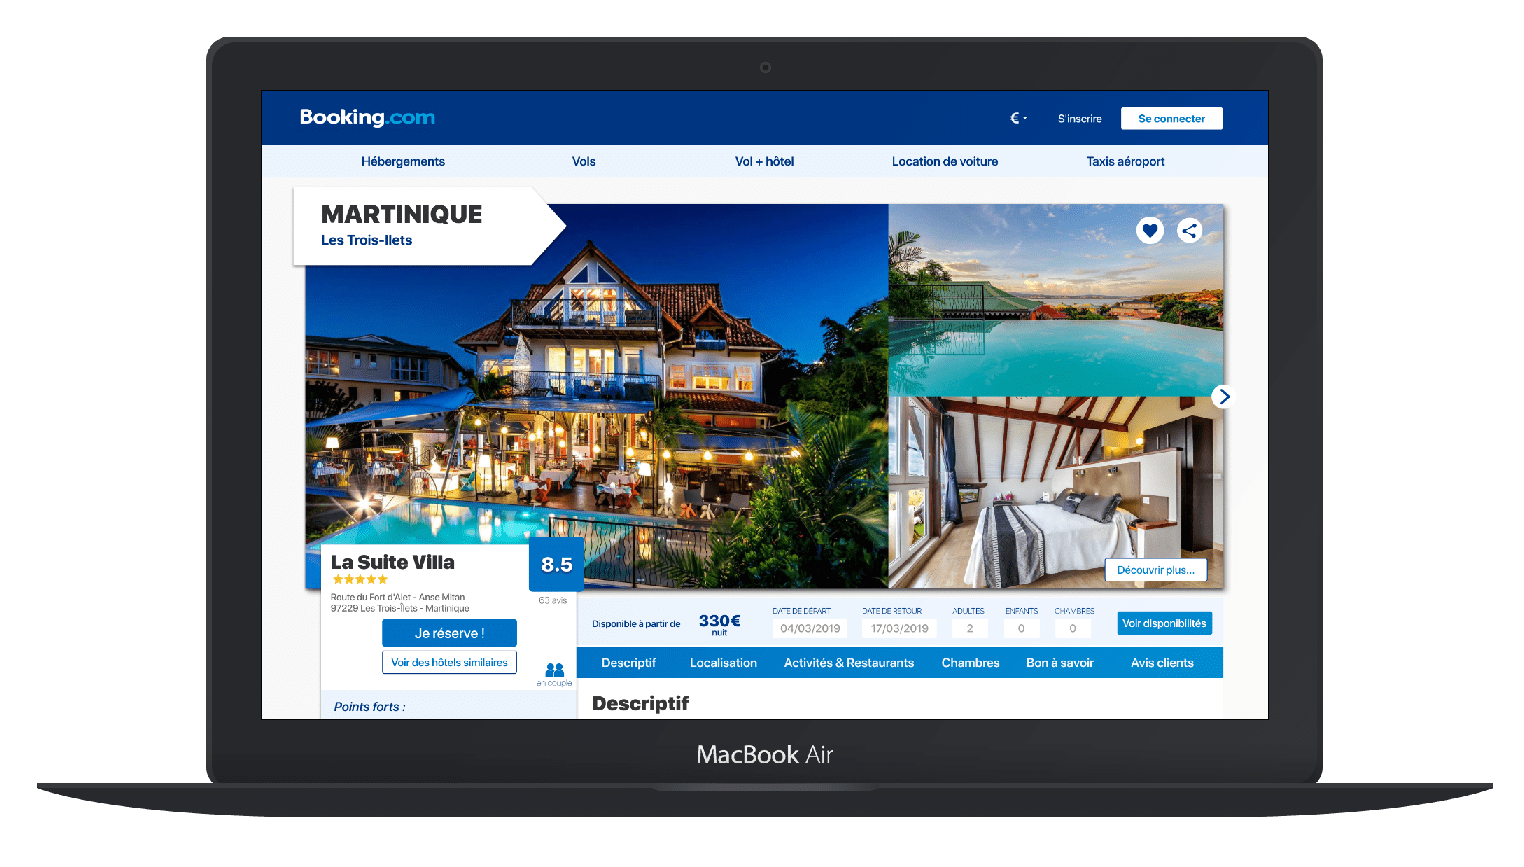
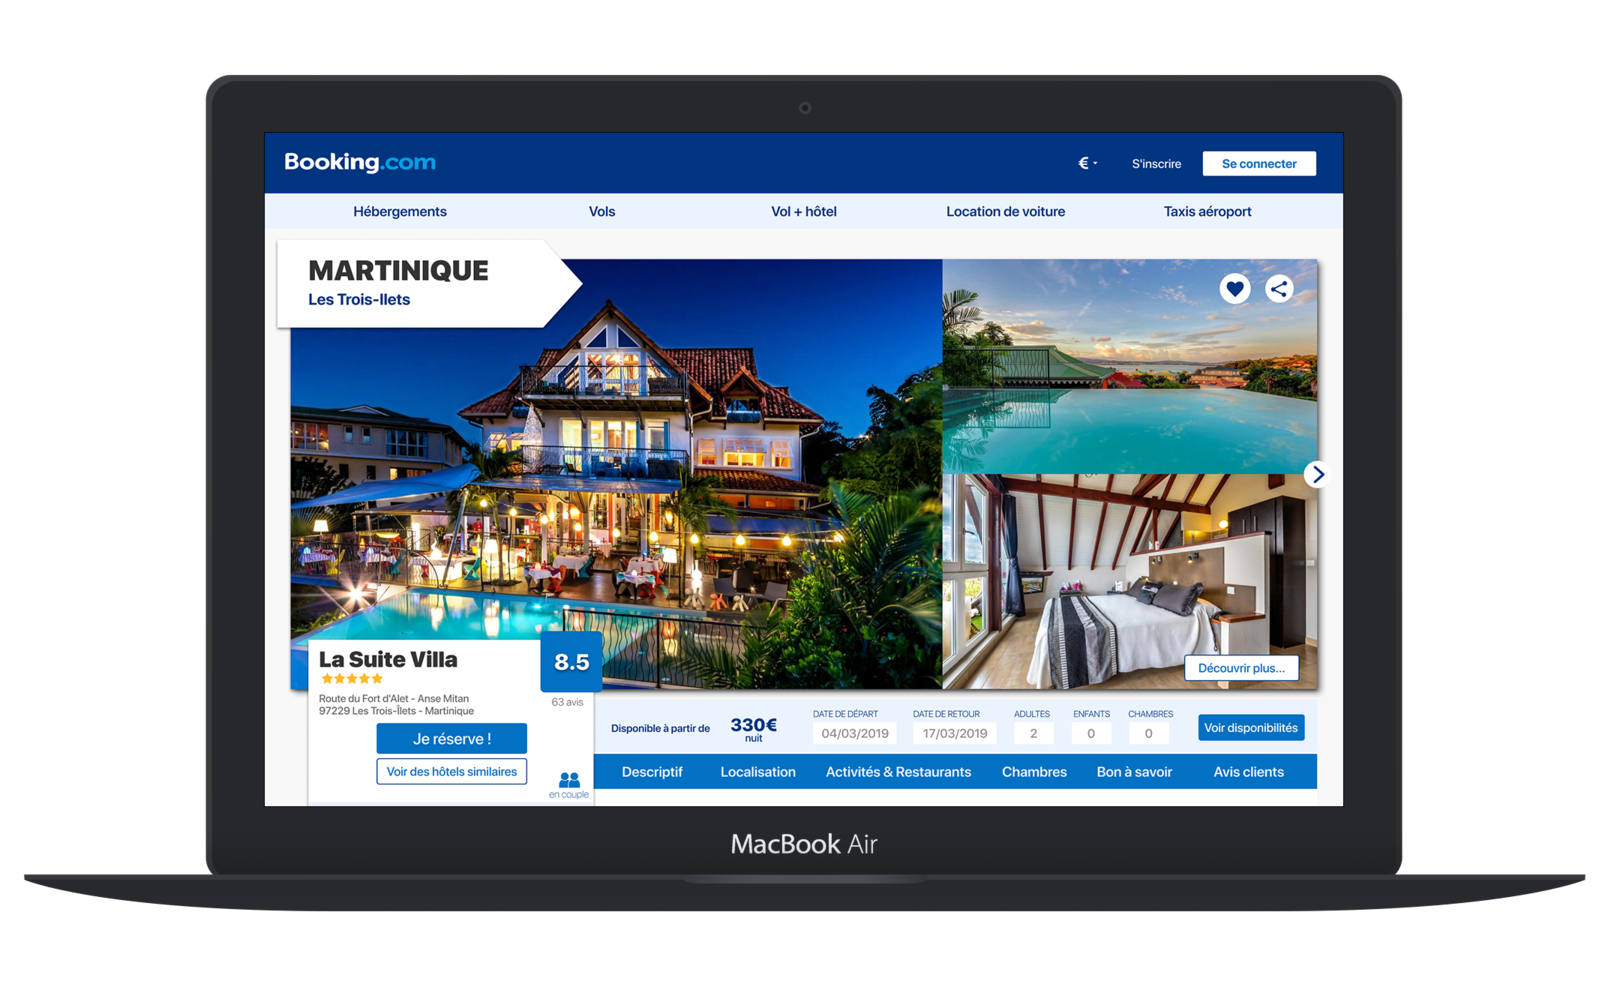
image optimization

diff --git a/src/scss/blocs/project.scss b/src/scss/blocs/project.scss
@@ -243,174 +243,3 @@ $margin-left-project-m: 30px;
     // margin-bottom: 300px;
   }
 }
-
-
-
-
-
-
-
-
-
-
-
-
-
-
-
-
-
-
-
-
-
-
-
-
-
-// .project__page .project__next {
-//   display: inline-block;
-//   position: relative;
-//   right: 20px;
-//   // width: 180px;
-//   margin-top: 20px;
-//   margin-bottom: 40px;
-//   margin-right: 50px;
-
-//   background-color: $papyrus;
-
-//   @include desktop {
-//     display: flex;
-//     justify-content: flex-end;
-//     align-items: center;
-//     position: absolute;
-//     // width: initial;
-//     right: 20px;
-//     bottom: 20px;
-//     padding: 0px 50px;
-//     margin-left: $margin-left-project;
-//     margin-right: 0px;
-//     margin-bottom: initial;
-//     padding: 0px 50px;
-//     font-size: initial;
-//   }
-// }
-
-// .project__next .icon__next {
-//   display: inline;
-//   position: relative;
-//   width: 40px;
-//   height: 40px;
-//   margin-left: 30px;
-//   transform: rotate(270deg);
-// }
-
-// .project__next .icon__next {
-//   position: relative;
-//   width: 40px;
-//   height: 40px;
-//   margin-left: 70%;
-//   margin-top: 30px;
-//   margin-bottom: 10%;
-
-//   transform: rotate(270deg);
-
-//   background-color: $papyrus;
-
-//   @include desktop {
-//     margin-left: initial;
-//     margin-top: initial;
-//     margin-bottom: initial;
-//   }
-// }
-
-// .project__next::before {
-//   position: absolute;
-//   content: "";
-//   right: 30px;
-
-//   @include desktop {
-//     content: "PROJET SUIVANT";
-//     width: 180px;
-//     right: 120px;
-//     text-align: right;
-//     // margin-left: 30px;
-
-//     @include paragraph;
-//     font-size: 1rem;
-//     font-weight: 300;
-//     color: $gold;
-//     background-color: $papyrus;
-//   }
-// }
-
-// .project__page .project__previous {
-//   display: inline-block;
-//   // width: 120px;
-//   margin-top: 20px;
-//   margin-bottom: 40px;
-//   margin-left: 50px;
-
-//   background-color: $papyrus;
-
-//   @include desktop {
-//     display: flex;
-//     justify-content: flex-start;
-//     align-items: center;
-//     position: absolute;
-//     // width: initial;
-//     left: 20px;
-//     bottom: 20px;
-//     margin-left: 0;
-//     margin-bottom: initial;
-//     padding: 0px 50px;
-//     font-size: initial;
-//   }
-// }
-
-// .project__previous .icon__next {
-//   display: inline;
-//   position: relative;
-//   width: 40px;
-//   height: 40px;
-//   margin-right: 30px;
-//   transform: rotate(90deg);
-// }
-
-// .project__previous .icon__next {
-//   position: relative;
-//   width: 40px;
-//   height: 40px;
-//   margin-left: 30%;
-//   margin-top: 30px;
-//   margin-bottom: 10%;
-
-//   transform: rotate(90deg);
-
-//   background-color: $papyrus;
-
-//   @include desktop {
-//     margin-left: initial;
-//     margin-top: initial;
-//     margin-bottom: initial;
-//   }
-// }
-
-// .project__previous::after {
-//   position: absolute;
-//   content: "";
-//   left: 30px;
-
-//   @include desktop {
-//     content: "PROJET PRÉCÉDENT";
-//     width: 180px;
-//     left: 120px;
-//     // margin-left: 30px;
-
-//     @include paragraph;
-//     font-size: 1rem;
-//     font-weight: 300;
-//     color: $gold;
-//     background-color: $papyrus;
-//   }
-// }

diff --git a/src/pages/booking.html b/src/pages/booking.html
@@ -5,6 +5,7 @@
     <meta name="viewport" content="width=device-width, initial-scale=1.0" />
     <meta name="format-detection" content="telephone=no" />
     <meta http-equiv="X-UA-Compatible" content="ie=edge" />
+    <meta name="description" content="Fiona Roux, Front-End Developper & UX|UI Designer en recherche de stage." />
     <link rel="stylesheet" href="../scss/styles.scss" />
     <title>Portfolio of Fiona Roux</title>
   </head>
@@ -222,7 +223,7 @@
     <article class="project__page">
       <h1 class="project__title">Booking</h1>
       <h2>ENJEU MAJEUR</h2>
-      <img class="project__mockup" src="/assets/mockup_booking.png"/>
+      <img class="project__mockup" src="/assets/mockup_booking.png" srcset="/assets/mockup_booking-min.png 800w" alt="preview de la maquette de Booking"/>
       <p class="project__description">Lorem ipsum dolor sit amet consectetur adipisicing elit. Nam rerum molestiae maiores expedita atque laudantium, quisquam consectetur voluptate ducimus, ex amet adipisci quod obcaecati sint, eius autem. Quod, iure aliquid?
       Lorem ipsum dolor sit amet consectetur adipisicing elit. Nam rerum molestiae maiores expedita atque laudantium, quisquam consectetur voluptate ducimus, ex amet adipisci quod obcaecati sint, eius autem. Quod, iure aliquid?
       </p>
@@ -231,7 +232,7 @@
     <!-- Projects navigation  -->
     <div class="project__navigation">
       <div class="project__next">
-        <a href="./moschino.html" class="project__link project__link--next">   
+        <a href="./moschino.html">   
           <svg class="icon__next" aria-hidden="true">
             <use xlink:href="#icon__scroll"></use>
           </svg>

diff --git a/src/pages/strit.html b/src/pages/strit.html
@@ -5,6 +5,7 @@
     <meta name="viewport" content="width=device-width, initial-scale=1.0" />
     <meta name="format-detection" content="telephone=no" />
     <meta http-equiv="X-UA-Compatible" content="ie=edge" />
+    <meta name="description" content="Fiona Roux, Front-End Developper & UX|UI Designer en recherche de stage." />
     <link rel="stylesheet" href="../scss/styles.scss" />
     <title>Portfolio of Fiona Roux</title>
   </head>
@@ -222,7 +223,7 @@
     <article class="project__page">
       <h1 class="project__title">Str'it</h1>
       <h2>ENJEU MAJEUR</h2>
-      <img class="project__mockup" src="/assets/mockup_moschino.png"/>
+      <img class="project__mockup" src="/assets/mockup_strit.png" srcset="/assets/mockup_strit-min.png 800w" alt="preview de la maquette de Strit"/>
       <p class="project__description">Dans le cadre d'un projet d'UX réalisé durant une semaine intensive à Hétic, mon groupe et moi-même étions chargés d'imaginer un concept de vêtement unique. 
         En tant que chef de projet, j'étais en charge de la direction artistique et de l'approche UX.</p>
       <a href="https://www.figma.com/file/VqLqn0OPkaYaTIO3aX5RLURS/Semaine-intensive-UI-UX?node-id=0%3A1" target="_blank" class="button__about">Voir la maquette</a>

diff --git a/src/pages/moschino.html b/src/pages/moschino.html
@@ -5,6 +5,7 @@
     <meta name="viewport" content="width=device-width, initial-scale=1.0" />
     <meta name="format-detection" content="telephone=no" />
     <meta http-equiv="X-UA-Compatible" content="ie=edge" />
+    <meta name="description" content="Fiona Roux, Front-End Developper & UX|UI Designer en recherche de stage." />
     <link rel="stylesheet" href="../scss/styles.scss" />
     <title>Portfolio of Fiona Roux</title>
   </head>
@@ -222,7 +223,7 @@
     <article class="project__page">
       <h1 class="project__title">Moschino</h1>
       <h2>ENJEU MAJEUR</h2>
-      <img class="project__mockup" src="/assets/mockup_moschino2.png"/>
+      <img class="project__mockup" src="/assets/mockup_moschino.png" srcset="/assets/mockup_moschino-min.png 800w" alt="preview de la maquette de Moschino"/>
       <p class="project__description">Lorem ipsum dolor sit amet consectetur adipisicing elit. Nam rerum molestiae maiores expedita atque laudantium, quisquam consectetur voluptate ducimus, ex amet adipisci quod obcaecati sint, eius autem. Quod, iure aliquid?</p>
       <a href="https://moschino.netlify.com/" target="_blank" class="button__about">Voir le site</a>
     </article>

diff --git a/src/index.html b/src/index.html
@@ -19,8 +19,9 @@
     <meta property="og:image:alt" content="Portfolio de Fiona Roux" />
     <meta
       property="og:description"
-      content="Actuellement à la recherche d'un stage en Développement Front-end pour 3 mois à partir de Juillet 2019."
+      content="Fiona Roux, Front-End Developper & UX|UI Designer en recherche de stage."
     />
+    <meta name="description" content="Fiona Roux, Front-End Developper & UX|UI Designer en recherche de stage." /> 
     <title>Portfolio of Fiona Roux</title>
   </head>
   <!-- GoldenLines -->
